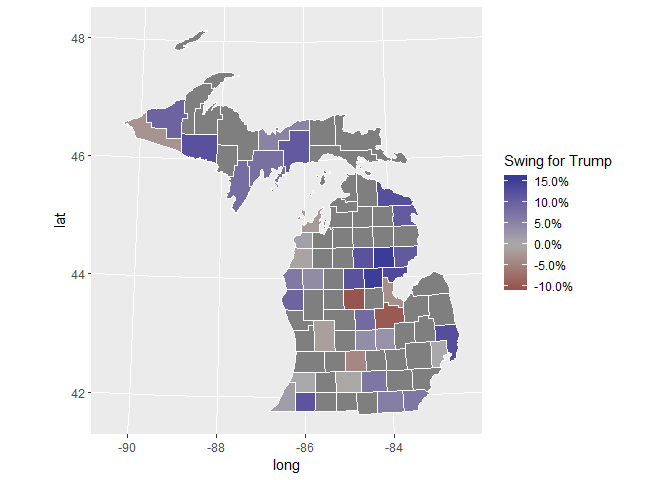
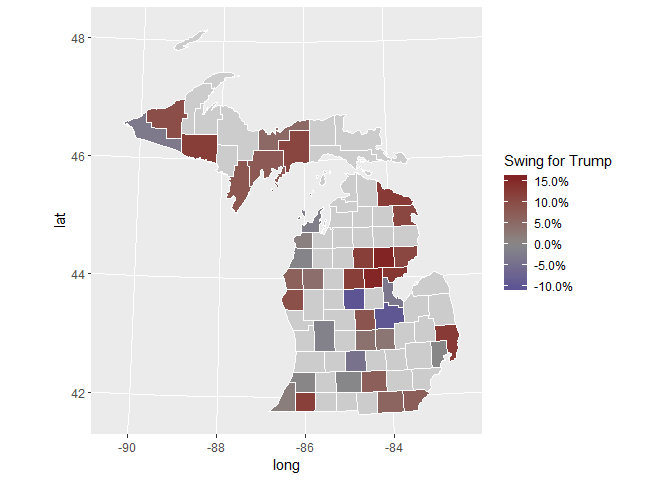
Use party colors!

Changed region(s): [[0.1875, 0.1562, 0.6875, 0.875], [0.75, 0.3438, 0.7812, 0.625], [0.25, 0.0625, 0.3125, 0.125]]

diff --git a/_posts/2019-05-13-swingiest-counties.md b/_posts/2019-05-13-swingiest-counties.md
@@ -3948,14 +3948,14 @@ county_2008 %>%
   ggplot(aes(long, lat, group = group, fill = trump_gain)) +
   geom_polygon(color = NA) +
   scale_fill_gradient2(labels = scales::percent,
-                       low = muted('red'), mid = 'white',
-                       high = muted('blue'), midpoint = 0,
+                       low = muted('blue'),  mid = 'white',
+                       high = muted('red'), midpoint = 0,
                        guide = guide_colorbar(title.position = "top")) +
   coord_map(projection = "albers", lat0 = 39, lat1 = 45) +
   labs(fill = "Swing for Trump")
 ```
 
-![](2019-05-13-swingiest-counties_files/figure-gfm/unnamed-chunk-48-1.png)<!-- -->
+![](2019-05-13-swingiest-counties_files/figure-gfm/unnamed-chunk-14-1.png)<!-- -->
 
 We plot each state independently
 
@@ -3966,14 +3966,14 @@ county_2008 %>% filter(state_name == 'Florida') %>%
   ggplot(aes(long, lat, group = group, fill = trump_gain)) +
   geom_polygon(color = "#ffffff") +
   scale_fill_gradient2(labels = scales::percent,
-                       low = muted('red'), mid = '#888888', na.value = 'gray80',
-                       high = muted('blue'), midpoint = 0,
+                       low = muted('blue'),  mid = '#888888', na.value = 'gray80',
+                       high = muted('red'), midpoint = 0,
                        guide = guide_colorbar(title.position = "top")) +
   coord_map(projection = "albers", lat0 = 39, lat1 = 45) +
   labs(fill = "Swing for Trump")
 ```
 
-![](2019-05-13-swingiest-counties_files/figure-gfm/unnamed-chunk-49-1.png)<!-- -->
+![](2019-05-13-swingiest-counties_files/figure-gfm/unnamed-chunk-15-1.png)<!-- -->
 
 ``` r
 fl_2008 <- (data_2008 %>% filter(state == 'Florida'))
@@ -4151,14 +4151,14 @@ county_2008 %>% filter(state_name == 'Iowa') %>%
   ggplot(aes(long, lat, group = group, fill = trump_gain)) +
   geom_polygon(color = "#ffffff") +
   scale_fill_gradient2(labels = scales::percent,
-                       low = muted('red'), mid = '#888888', na.value = 'gray80',
-                       high = muted('blue'), midpoint = 0,
+                       low = muted('blue'),  mid = '#888888', na.value = 'gray80',
+                       high = muted('red'), midpoint = 0,
                        guide = guide_colorbar(title.position = "top")) +
   coord_map(projection = "albers", lat0 = 39, lat1 = 45) +
   labs(fill = "Swing for Trump")
 ```
 
-![](2019-05-13-swingiest-counties_files/figure-gfm/unnamed-chunk-51-1.png)<!-- -->
+![](2019-05-13-swingiest-counties_files/figure-gfm/unnamed-chunk-17-1.png)<!-- -->
 
 ``` r
 ia_2008 <- (data_2008 %>% filter(state == 'Iowa'))
@@ -5238,14 +5238,14 @@ county_2008 %>% filter(state_name == 'Michigan') %>%
   ggplot(aes(long, lat, group = group, fill = trump_gain)) +
   geom_polygon(color = "#ffffff") +
   scale_fill_gradient2(labels = scales::percent,
-                       low = muted('red'), mid = '#888888', na.value = 'gray80',
-                       high = muted('blue'), midpoint = 0,
+                       low = muted('blue'),  mid = '#888888', na.value = 'gray80',
+                       high = muted('red'), midpoint = 0,
                        guide = guide_colorbar(title.position = "top")) +
   coord_map(projection = "albers", lat0 = 39, lat1 = 45) +
   labs(fill = "Swing for Trump")
 ```
 
-![](2019-05-13-swingiest-counties_files/figure-gfm/unnamed-chunk-53-1.png)<!-- -->
+![](2019-05-13-swingiest-counties_files/figure-gfm/unnamed-chunk-19-1.png)<!-- -->
 
 ``` r
 mi_2008 <- (data_2008 %>% filter(state == 'Michigan'))
@@ -6127,14 +6127,14 @@ county_2008 %>% filter(state_name == 'Nebraska') %>%
   ggplot(aes(long, lat, group = group, fill = trump_gain)) +
   geom_polygon(color = "#ffffff") +
   scale_fill_gradient2(labels = scales::percent,
-                       low = muted('red'), mid = '#888888', na.value = 'gray80',
-                       high = muted('blue'), midpoint = 0,
+                       low = muted('blue'),  mid = '#888888', na.value = 'gray80',
+                       high = muted('red'), midpoint = 0,
                        guide = guide_colorbar(title.position = "top")) +
   coord_map(projection = "albers", lat0 = 39, lat1 = 45) +
   labs(fill = "Swing for Trump")
 ```
 
-![](2019-05-13-swingiest-counties_files/figure-gfm/unnamed-chunk-55-1.png)<!-- -->
+![](2019-05-13-swingiest-counties_files/figure-gfm/unnamed-chunk-21-1.png)<!-- -->
 
 ``` r
 ne_2008 <- (data_2008 %>% filter(state == 'Nebraska'))
@@ -6208,14 +6208,14 @@ county_2008 %>% filter(state_name == 'Ohio') %>%
   ggplot(aes(long, lat, group = group, fill = trump_gain)) +
   geom_polygon(color = "#ffffff") +
   scale_fill_gradient2(labels = scales::percent,
-                       low = muted('red'), mid = '#888888', na.value = 'gray80',
-                       high = muted('blue'), midpoint = 0,
+                       low = muted('blue'),  mid = '#888888', na.value = 'gray80',
+                       high = muted('red'), midpoint = 0,
                        guide = guide_colorbar(title.position = "top")) +
   coord_map(projection = "albers", lat0 = 39, lat1 = 45) +
   labs(fill = "Swing for Trump")
 ```
 
-![](2019-05-13-swingiest-counties_files/figure-gfm/unnamed-chunk-57-1.png)<!-- -->
+![](2019-05-13-swingiest-counties_files/figure-gfm/unnamed-chunk-23-1.png)<!-- -->
 
 ``` r
 oh_2008 <- (data_2008 %>% filter(state == 'Ohio'))
@@ -6569,14 +6569,14 @@ county_2008 %>% filter(state_name == 'Pennsylvania') %>%
   ggplot(aes(long, lat, group = group, fill = trump_gain)) +
   geom_polygon(color = "#ffffff") +
   scale_fill_gradient2(labels = scales::percent,
-                       low = muted('red'), mid = '#888888', na.value = 'gray80',
-                       high = muted('blue'), midpoint = 0,
+                       low = muted('blue'),  mid = '#888888', na.value = 'gray80',
+                       high = muted('red'), midpoint = 0,
                        guide = guide_colorbar(title.position = "top")) +
   coord_map(projection = "albers", lat0 = 39, lat1 = 45) +
   labs(fill = "Swing for Trump")
 ```
 
-![](2019-05-13-swingiest-counties_files/figure-gfm/unnamed-chunk-59-1.png)<!-- -->
+![](2019-05-13-swingiest-counties_files/figure-gfm/unnamed-chunk-25-1.png)<!-- -->
 
 ``` r
 pa_2008 <- (data_2008 %>% filter(state == 'Pennsylvania'))
@@ -6776,14 +6776,14 @@ county_2008 %>% filter(state_name == 'Wisconsin') %>%
   ggplot(aes(long, lat, group = group, fill = trump_gain)) +
   geom_polygon(color = "#ffffff") +
   scale_fill_gradient2(labels = scales::percent,
-                       low = muted('red'), mid = '#888888', na.value = 'gray80',
-                       high = muted('blue'), midpoint = 0,
+                       low = muted('blue'),  mid = '#888888', na.value = 'gray80',
+                       high = muted('red'), midpoint = 0,
                        guide = guide_colorbar(title.position = "top")) +
   coord_map(projection = "albers", lat0 = 39, lat1 = 45) +
   labs(fill = "Swing for Trump")
 ```
 
-![](2019-05-13-swingiest-counties_files/figure-gfm/unnamed-chunk-61-1.png)<!-- -->
+![](2019-05-13-swingiest-counties_files/figure-gfm/unnamed-chunk-27-1.png)<!-- -->
 
 ``` r
 wi_2008 <- (data_2008 %>% filter(state == 'Wisconsin'))
@@ -9464,14 +9464,14 @@ county_2012 %>%
   ggplot(aes(long, lat, group = group, fill = trump_gain)) +
   geom_polygon(color = NA) +
   scale_fill_gradient2(labels = scales::percent,
-                       low = muted('red'), mid = '#888888', na.value = 'gray80',
-                       high = muted('blue'), midpoint = 0,
+                       low = muted('blue'),  mid = '#888888', na.value = 'gray80',
+                       high = muted('red'), midpoint = 0,
                        guide = guide_colorbar(title.position = "top")) +
   coord_map(projection = "albers", lat0 = 39, lat1 = 45) +
   labs(fill = "Swing for Trump")
 ```
 
-![](2019-05-13-swingiest-counties_files/figure-gfm/unnamed-chunk-65-1.png)<!-- -->
+![](2019-05-13-swingiest-counties_files/figure-gfm/unnamed-chunk-31-1.png)<!-- -->
 
 ## Florida
 
@@ -9480,14 +9480,14 @@ county_2012 %>% filter(state_name == 'Florida') %>%
   ggplot(aes(long, lat, group = group, fill = trump_gain)) +
   geom_polygon(color = "#ffffff") +
   scale_fill_gradient2(labels = scales::percent,
-                       low = muted('red'), mid = '#888888', na.value = 'gray80',
-                       high = muted('blue'), midpoint = 0,
+                       low = muted('blue'),  mid = '#888888', na.value = 'gray80',
+                       high = muted('red'), midpoint = 0,
                        guide = guide_colorbar(title.position = "top")) +
   coord_map(projection = "albers", lat0 = 39, lat1 = 45) +
   labs(fill = "Swing for Trump")
 ```
 
-![](2019-05-13-swingiest-counties_files/figure-gfm/unnamed-chunk-66-1.png)<!-- -->
+![](2019-05-13-swingiest-counties_files/figure-gfm/unnamed-chunk-32-1.png)<!-- -->
 
 ``` r
 fl_2012 <- (data_2012 %>% filter(state == 'Florida'))
@@ -9621,14 +9621,14 @@ county_2012 %>% filter(state_name == 'Iowa') %>%
   ggplot(aes(long, lat, group = group, fill = trump_gain)) +
   geom_polygon(color = "#ffffff") +
   scale_fill_gradient2(labels = scales::percent,
-                       low = muted('red'), mid = '#888888', na.value = 'gray80',
-                       high = muted('blue'), midpoint = 0,
+                       low = muted('blue'),  mid = '#888888', na.value = 'gray80',
+                       high = muted('red'), midpoint = 0,
                        guide = guide_colorbar(title.position = "top")) +
   coord_map(projection = "albers", lat0 = 39, lat1 = 45) +
   labs(fill = "Swing for Trump")
 ```
 
-![](2019-05-13-swingiest-counties_files/figure-gfm/unnamed-chunk-68-1.png)<!-- -->
+![](2019-05-13-swingiest-counties_files/figure-gfm/unnamed-chunk-34-1.png)<!-- -->
 
 ``` r
 ia_2012 <- (data_2012 %>% filter(state == 'Iowa'))
@@ -10378,14 +10378,14 @@ county_2012 %>% filter(state_name == 'Michigan') %>%
   ggplot(aes(long, lat, group = group, fill = trump_gain)) +
   geom_polygon(color = "#ffffff") +
   scale_fill_gradient2(labels = scales::percent,
-                       low = muted('red'), mid = '#888888', na.value = 'gray80',
-                       high = muted('blue'), midpoint = 0,
+                       low = muted('blue'),  mid = '#888888', na.value = 'gray80',
+                       high = muted('red'), midpoint = 0,
                        guide = guide_colorbar(title.position = "top")) +
   coord_map(projection = "albers", lat0 = 39, lat1 = 45) +
   labs(fill = "Swing for Trump")
 ```
 
-![](2019-05-13-swingiest-counties_files/figure-gfm/unnamed-chunk-70-1.png)<!-- -->
+![](2019-05-13-swingiest-counties_files/figure-gfm/unnamed-chunk-36-1.png)<!-- -->
 
 ``` r
 mi_2012 <- (data_2012 %>% filter(state == 'Michigan'))
@@ -10695,14 +10695,14 @@ county_2012 %>% filter(state_name == 'Ohio') %>%
   ggplot(aes(long, lat, group = group, fill = trump_gain)) +
   geom_polygon(color = "#ffffff") +
   scale_fill_gradient2(labels = scales::percent,
-                       low = muted('red'), mid = '#888888', na.value = 'gray80',
-                       high = muted('blue'), midpoint = 0,
+                       low = muted('blue'),  mid = '#888888', na.value = 'gray80',
+                       high = muted('red'), midpoint = 0,
                        guide = guide_colorbar(title.position = "top")) +
   coord_map(projection = "albers", lat0 = 39, lat1 = 45) +
   labs(fill = "Swing for Trump")
 ```
 
-![](2019-05-13-swingiest-counties_files/figure-gfm/unnamed-chunk-72-1.png)<!-- -->
+![](2019-05-13-swingiest-counties_files/figure-gfm/unnamed-chunk-38-1.png)<!-- -->
 
 ``` r
 oh_2012 <- (data_2012 %>% filter(state == 'Ohio'))
@@ -10946,14 +10946,14 @@ county_2012 %>% filter(state_name == 'Pennsylvania') %>%
   ggplot(aes(long, lat, group = group, fill = trump_gain)) +
   geom_polygon(color = "#ffffff") +
   scale_fill_gradient2(labels = scales::percent,
-                       low = muted('red'), mid = '#888888', na.value = 'gray80',
-                       high = muted('blue'), midpoint = 0,
+                       low = muted('blue'),  mid = '#888888', na.value = 'gray80',
+                       high = muted('red'), midpoint = 0,
                        guide = guide_colorbar(title.position = "top")) +
   coord_map(projection = "albers", lat0 = 39, lat1 = 45) +
   labs(fill = "Swing for Trump")
 ```
 
-![](2019-05-13-swingiest-counties_files/figure-gfm/unnamed-chunk-74-1.png)<!-- -->
+![](2019-05-13-swingiest-counties_files/figure-gfm/unnamed-chunk-40-1.png)<!-- -->
 
 ``` r
 pa_2012 <- (data_2012 %>% filter(state == 'Pennsylvania'))
@@ -11065,14 +11065,14 @@ county_2012 %>% filter(state_name == 'Wisconsin') %>%
   ggplot(aes(long, lat, group = group, fill = trump_gain)) +
   geom_polygon(color = "#ffffff") +
   scale_fill_gradient2(labels = scales::percent,
-                       low = muted('red'), mid = '#888888', na.value = 'gray80',
-                       high = muted('blue'), midpoint = 0,
+                       low = muted('blue'),  mid = '#888888', na.value = 'gray80',
+                       high = muted('red'), midpoint = 0,
                        guide = guide_colorbar(title.position = "top")) +
   coord_map(projection = "albers", lat0 = 39, lat1 = 45) +
   labs(fill = "Swing for Trump")
 ```
 
-![](2019-05-13-swingiest-counties_files/figure-gfm/unnamed-chunk-76-1.png)<!-- -->
+![](2019-05-13-swingiest-counties_files/figure-gfm/unnamed-chunk-42-1.png)<!-- -->
 
 ``` r
 wi_2012 <- (data_2012 %>% filter(state == 'Wisconsin'))
